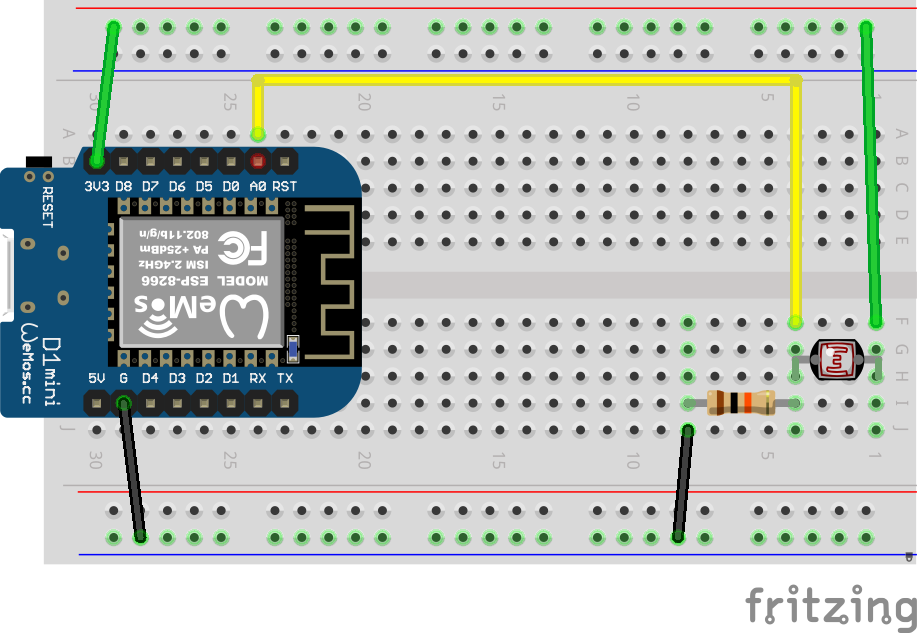
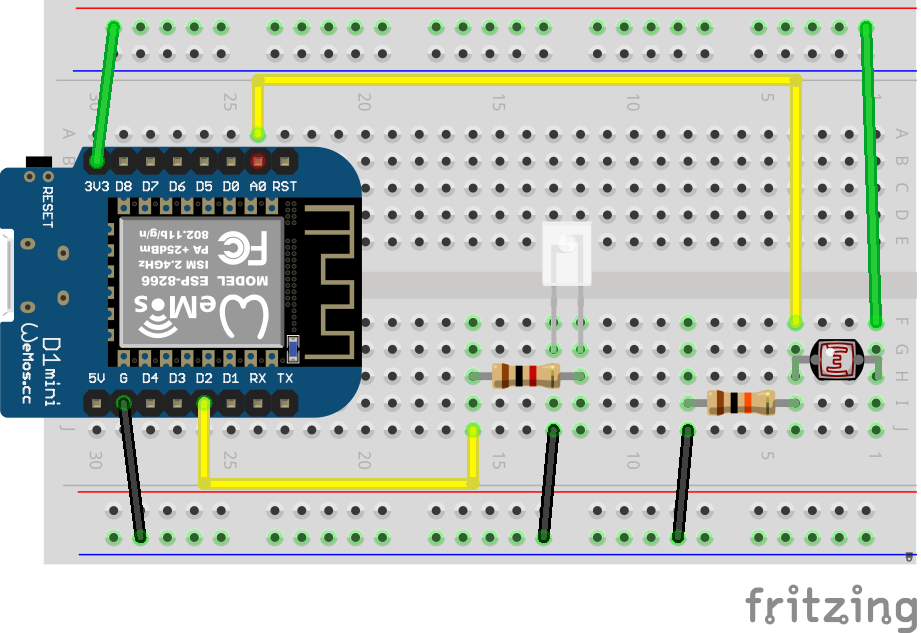
02_light_analog.md

Changed region(s): [[0.2128, 0.3302, 0.6688, 0.8705]]

diff --git a/instructions/02_light_analog.md b/instructions/02_light_analog.md
@@ -1,6 +1,10 @@
-# Измерение освещенности
+# Адаптивное освещение
 
-Используется фоторезистор VT93N2
+При снижении уровня освещения можно компенсировать недостаток света увеличивающейся яркостью лампы. Чтобы в полной темноте лампа горела на полной яркости, а на свету светила на минимальной яркости или вообще выключалась.
+
+Также следует предусмотреть режим, когда по внешней команде можно будет изменять яркость вручную.
+
+Для измерения уровня освещения используется фоторезистор VT93N2
 
 [Datasheet](http://www.farnell.com/datasheets/919043.pdf)
 
@@ -13,7 +17,7 @@
 - сопротивление при освещении 10 люкс :от 2 до 5 кОм;
 - сопротивления в темноте: 500 кОм.
 
-Для измерения его сопртивления используется аналоговый вход A0 микроконтроллера. Потребуется построить небольшую схему, называемую делитель напряжения.
+Для измерения его сопротивления используется аналоговый вход A0 микроконтроллера. Потребуется построить небольшую схему, называемую делитель напряжения.
 
 ![](img/02/02_light_analog_shema.png)
 
@@ -21,12 +25,39 @@
 
 
 
-Используемый нами модуль содержит дополнительные элементы (будут нужны в другой задаче), но при этом позволяет использовать фоторезистор напрямую. Для этого надо подключиться к ножкам A0 и GND модуля.
+Используемый нами модуль с фоторезистором содержит дополнительные элементы (будут нужны в другой задаче), но при этом позволяет использовать фоторезистор напрямую. Для этого надо подключиться к ножкам A0 и GND модуля.
 
 ![](img/02/LIGHT.png)
 
-Для считывания показаний достаточно использовать функцию `analogRead(A0)`, которая возвращает число в зиапазоне от 0 до 1024 (напряжение от 0 до 1 вольта).
+Для считывания показаний достаточно использовать функцию `analogRead(A0)`, которая возвращает число в диапазоне от 0 до 1024 (напряжение от 0 до 1 вольта).
+
+Для изменения яркости свечения будем использовать ШИМ регулирование. В случае с ESP8266 функция [analogWrite](https://www.arduino.cc/reference/en/language/functions/analog-io/analogwrite/) в качестве второго параметра принимает значения от 0 до 1023
+
+Пример:
+
+```c++
+#define LED D2
+
+void setup() {
+  pinMode(LED,OUTPUT);
+}
+
+void loop() {
+  Serial.println("40 % PWM");
+  analogWrite(LED,410);
+  delay(2000);
+
+  Serial.println("100 % PWM");
+  analogWrite(LED,1024);
+  delay(2000);
+}
+```
 
 
 
-Задача - написать прошивку, которая будет измерять текущий уровень освещенности и направлять его числом в топик **rtfbest/alight**
+
+Задача - написать прошивку, которая 
+
+1. будет измерять текущий уровень освещенности и направлять его числом в топик **rtfbest/alight**, 
+2. рассчитывать дополнительную яркость (логику придумайте самостоятельно) и направлять её в топик **rtfbest/alight_pwm**, заодно изменяя яркость светодиода (он будет выступать в роли лампы)
+3. при получении числа до 1024 в топик **rtfbest/alight_pwm_override **будет изменять на 10 секунд яркость светодиода.

diff --git a/instructions/03_light_digital.md b/instructions/03_light_digital.md
@@ -1,0 +1,3 @@
+## Свет в подъезде
+
+Чаще всего требуется просто зафиксировать значение освещения "достаточно темно, пора включать свет" или "достаточно светло"
